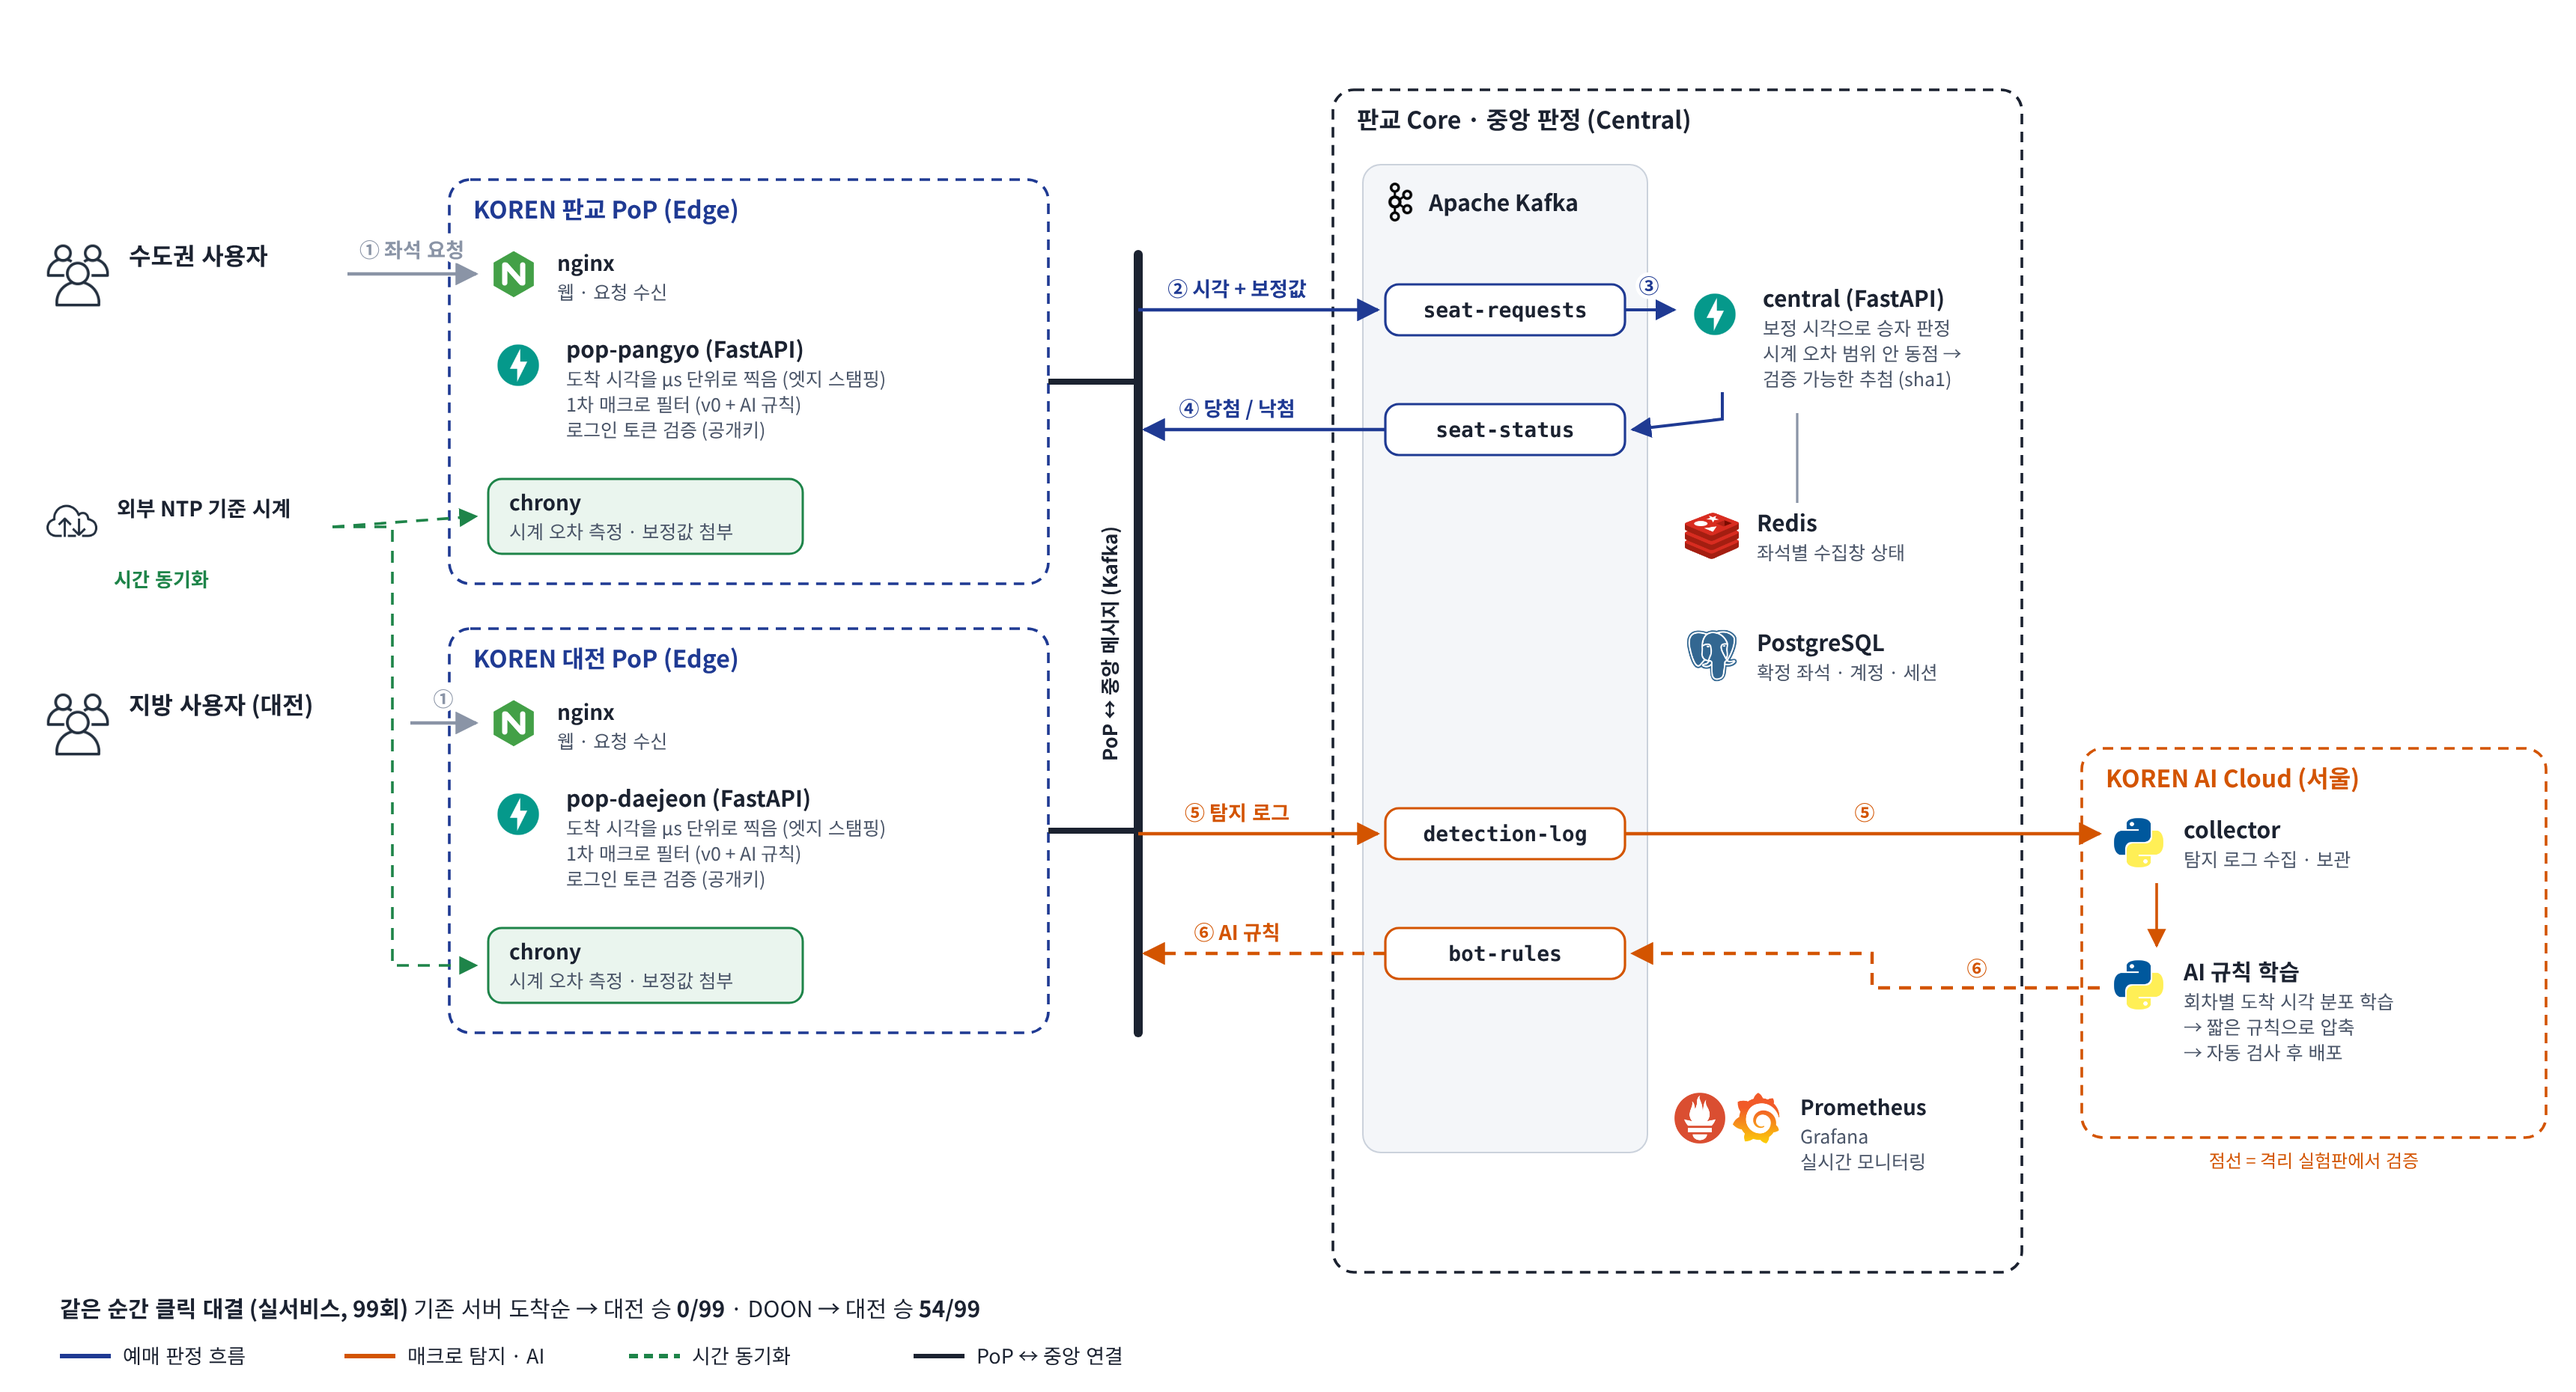
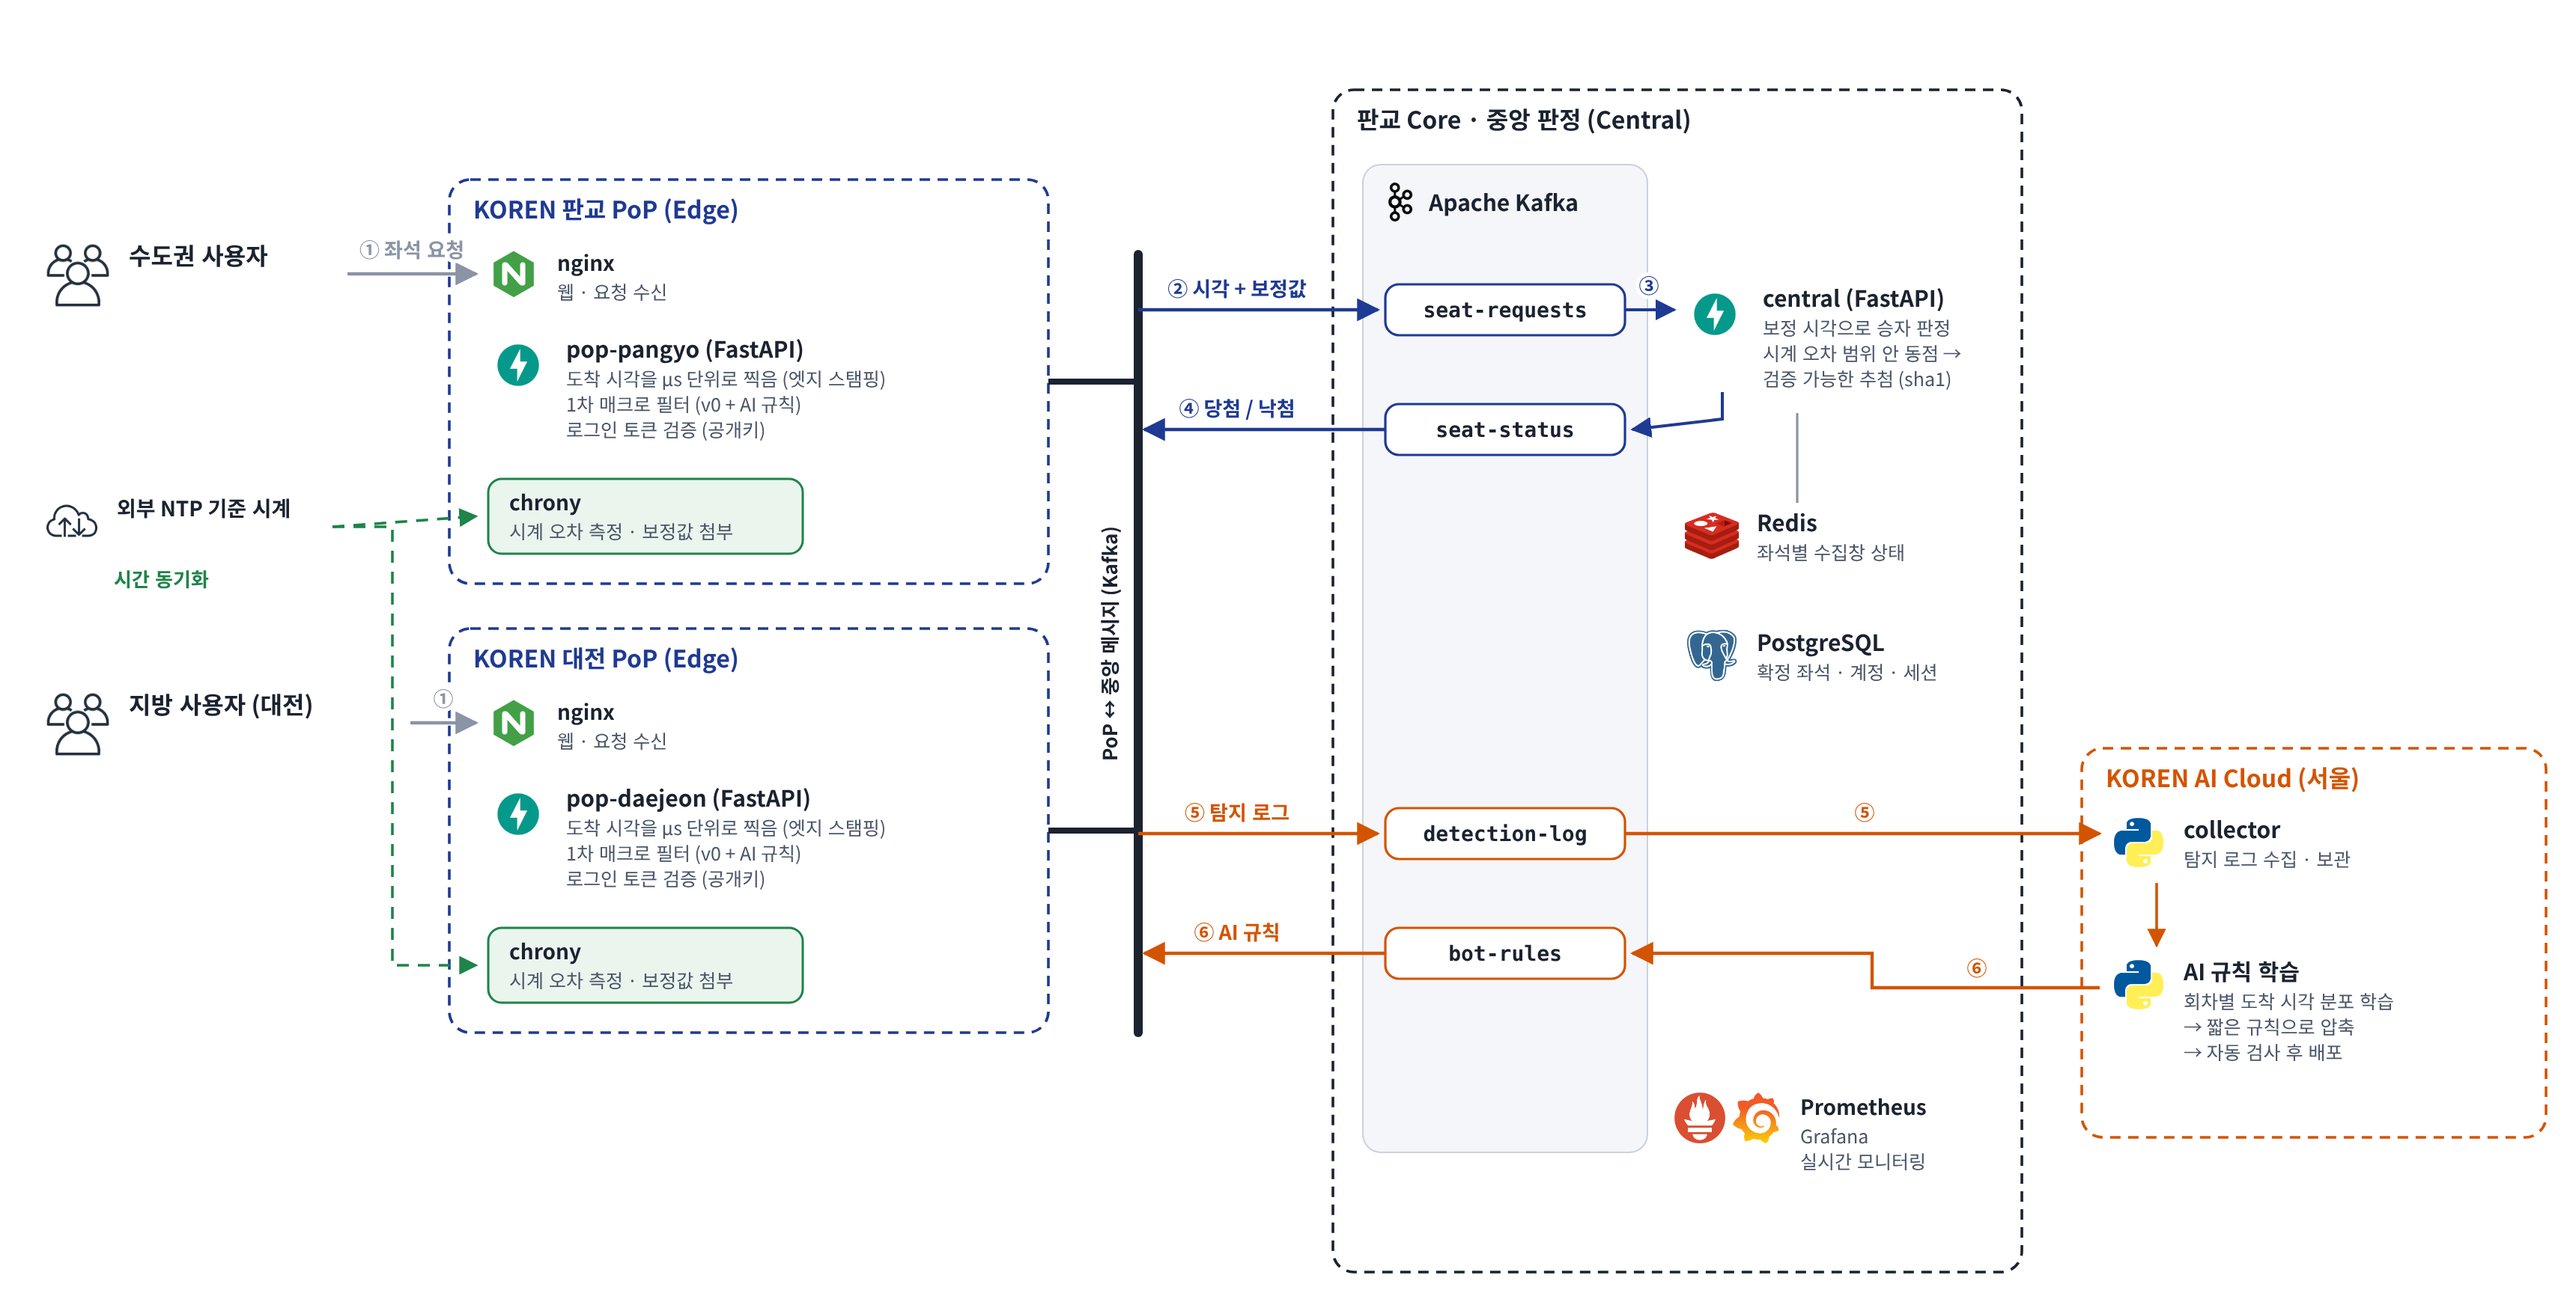
docs: network diagram — drop bottom lines, solid AI rule arrows

diff --git a/docs/report/network/shot.js b/docs/report/network/shot.js
@@ -2,7 +2,7 @@ const puppeteer = require('puppeteer');
 (async () => {
   const b = await puppeteer.launch({ args: ['--no-sandbox'] });
   const p = await b.newPage();
-  await p.setViewport({ width: 1720, height: 930, deviceScaleFactor: 2 });
+  await p.setViewport({ width: 1720, height: 870, deviceScaleFactor: 2 });
   await p.goto('file:///work/doon_network.html');
   await p.evaluate(() => document.fonts.ready);
   await p.screenshot({ path: '/work/doon_network.png' });

diff --git a/docs/report/network/make_svg.py b/docs/report/network/make_svg.py
@@ -3,7 +3,7 @@ import base64
 import os
 
 HERE = os.path.dirname(os.path.abspath(__file__))
-W, H = 1720, 930
+W, H = 1720, 870
 NAVY, ORANGE, GREEN, GREY, INK, SUB = "#1F3A93", "#D35400", "#1E8449", "#8A94A6", "#1B2230", "#4A5568"
 FONT = "'Noto Sans CJK KR', sans-serif"
 
@@ -91,7 +91,7 @@ pill(925, 620, 160, ORANGE, "bot-rules")
 arrow([(BX, 207), (920, 207)], NAVY, "② 시각 + 보정값", 826, 198)
 arrow([(925, 287), (BX + 4, 287)], NAVY, "④ 당첨 / 낙첨", 826, 278)
 arrow([(BX, 557), (920, 557)], ORANGE, "⑤ 탐지 로그", 826, 548)
-arrow([(925, 637), (BX + 4, 637)], ORANGE, "⑥ AI 규칙", 826, 628, dash=True)
+arrow([(925, 637), (BX + 4, 637)], ORANGE, "⑥ AI 규칙", 826, 628)
 
 comp(1125, 190, ["fastapi"], "central (FastAPI)",
      ["보정 시각으로 승자 판정", "시계 오차 범위 안 동점 →", "검증 가능한 추첨 (sha1)"], size=40)
@@ -108,18 +108,9 @@ comp(1410, 545, ["python"], "collector", ["탐지 로그 수집 · 보관"], siz
 comp(1410, 640, ["python"], "AI 규칙 학습", ["회차별 도착 시각 분포 학습", "→ 짧은 규칙으로 압축", "→ 자동 검사 후 배포"], size=36)
 arrow([(1440, 590), (1440, 632)], ORANGE, None, width=1.8)
 arrow([(1085, 557), (1402, 557)], ORANGE, "⑤", 1245, 548)
-arrow([(1402, 660), (1250, 660), (1250, 637), (1090, 637)], ORANGE, "⑥", 1320, 652, dash=True)
-out.append(f'<text x="1545" y="780" font-size="12" fill="{ORANGE}" text-anchor="middle">점선 = 격리 실험판에서 검증</text>')
+arrow([(1402, 660), (1250, 660), (1250, 637), (1090, 637)], ORANGE, "⑥", 1320, 652)
 
 # ---------- 하단
-out.append(f'<text x="40" y="880" font-size="15" fill="{INK}"><tspan font-weight="700">같은 순간 클릭 대결 (실서비스, 99회)</tspan>'
-           f'  기존 서버 도착순 → 대전 승 <tspan font-weight="700">0/99</tspan>   ·   DOON → 대전 승 <tspan font-weight="700">54/99</tspan></text>')
-legend = [(NAVY, False, "예매 판정 흐름"), (ORANGE, False, "매크로 탐지 · AI"), (GREEN, True, "시간 동기화"), (INK, False, "PoP ↔ 중앙 연결")]
-x = 40
-for c, dsh, t in legend:
-    out.append(f'<line x1="{x}" y1="906" x2="{x + 34}" y2="906" stroke="{c}" stroke-width="3" {DA64 if dsh else ""}/>')
-    out.append(f'<text x="{x + 42}" y="911" font-size="13.5" fill="{INK}">{t}</text>')
-    x += 190
 
 markers = "".join(
     f'<marker id="a{c.strip("#")}" viewBox="0 0 10 10" refX="9" refY="5" markerWidth="7" markerHeight="7" orient="auto">'

diff --git a/docs/report/network/README.md b/docs/report/network/README.md
@@ -13,4 +13,4 @@ docker run --rm --user $(id -u):$(id -g) -e HOME=/tmp -e NODE_PATH=/home/pptruse
   -v /usr/share/fonts/opentype/noto:/usr/share/fonts/noto:ro ghcr.io/puppeteer/puppeteer:latest node /work/shot.js
 ```
 
-점선(⑥ AI 규칙 학습·배포)은 격리 실험판에서 검증한 흐름이다. 연결선에는 KOREN 망 여부를 적지 않았다(미확인).
+연결선에는 KOREN 망 여부를 적지 않았다(미확인).
